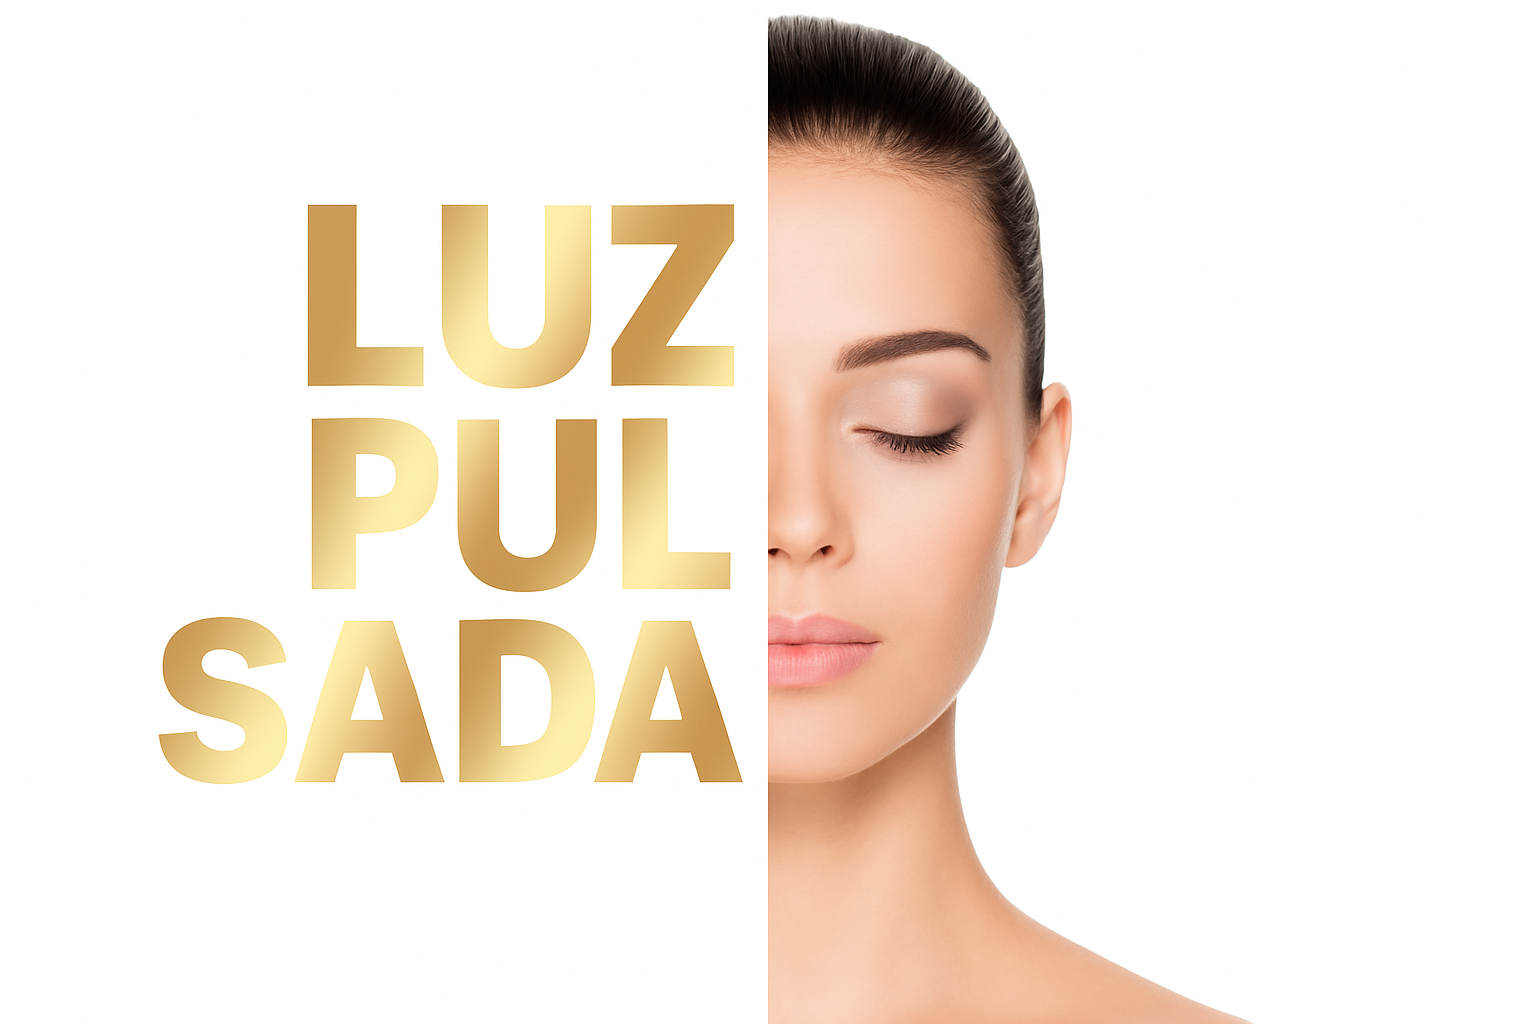
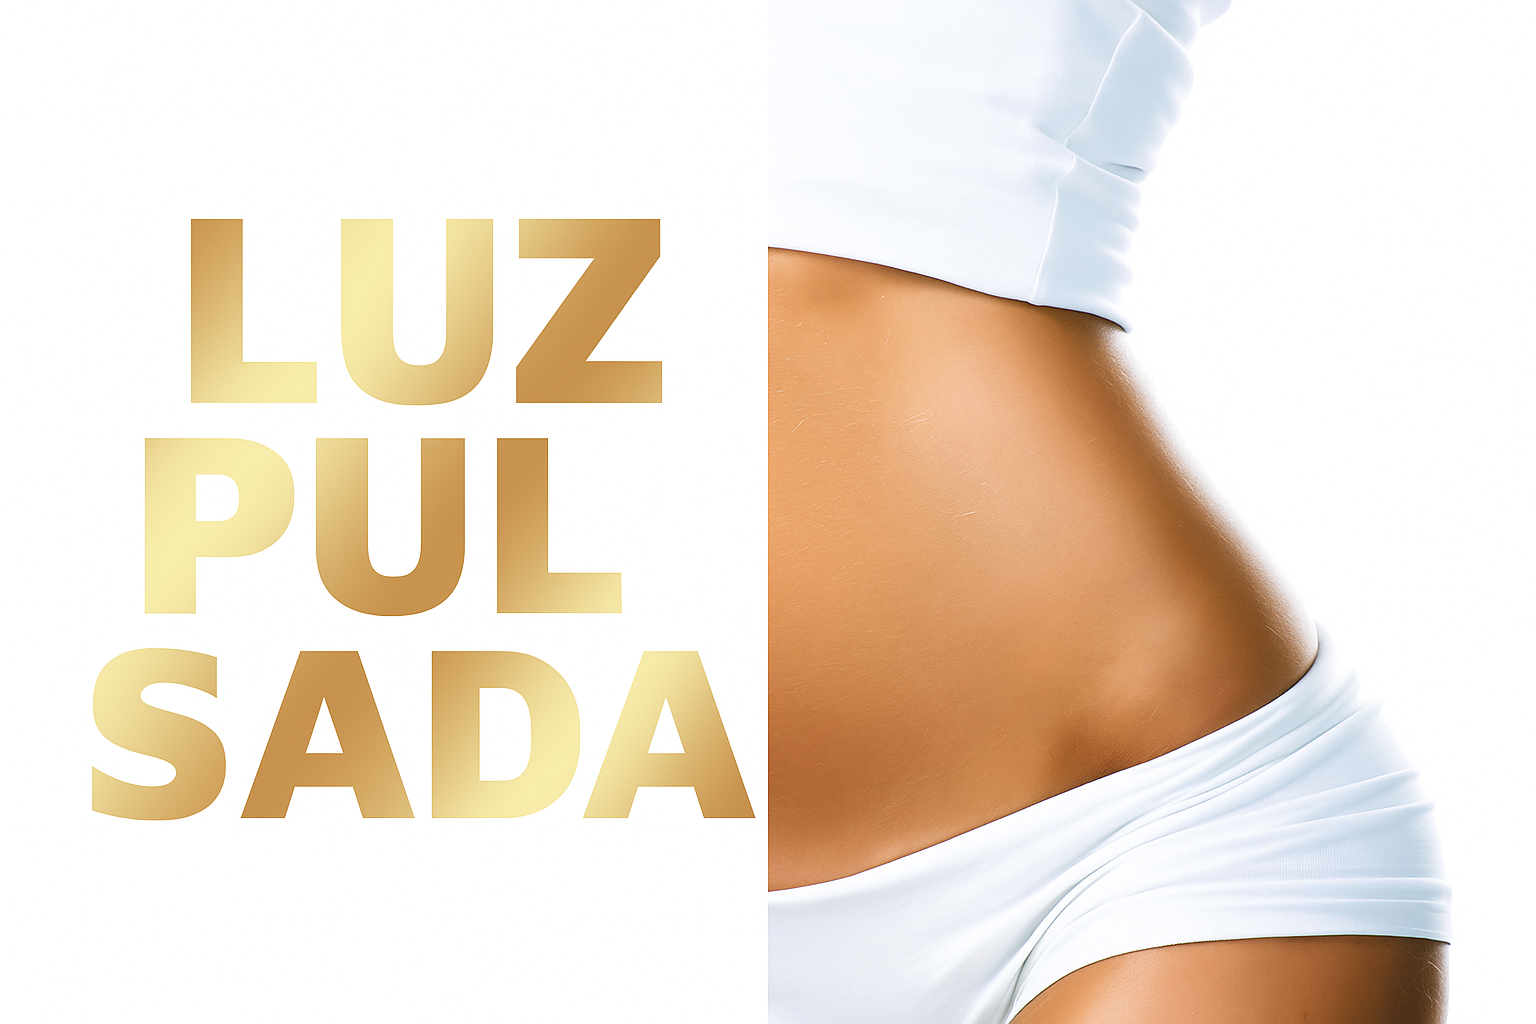
ajustes nas paginas

diff --git a/index.html b/index.html
@@ -36,10 +36,10 @@
             </ul>
           </li>
           <li class="nav-item">
-            <a class="nav-link" href="blog.html">Blog</a>
+            <a class="nav-link" href="sobre.html">Sobre</a>
           </li>
           <li class="nav-item">
-            <a class="nav-link" href="sobre.html">Sobre</a>
+            <a class="nav-link" href="contato.html">Contato</a>
           </li>
         </ul>
       </div>
@@ -73,14 +73,6 @@
       </div>
     </div>
     </a>
-    <a href="epilacao.html" class="card-link" style="text-decoration: none;">
-    <div class="card" style="width: 18rem;">
-      <img src="FOTOS/epilacao-card.png" class="card-img-top" alt="FOTOS/epilacao-card.png">
-      <div class="card-body">
-        <p class="card-text">Epilação com cera para remover os pelos de forma eficaz, segura e duradoura, promovendo pele lisa, macia e livre de irritações.</p>
-      </div>
-    </div>
-    </a>
     <a href="luzpulsada.html" class="card-link" style="text-decoration: none;">
     <div class="card" style="width: 18rem;">
       <img src="FOTOS/luzpulsada-card.png" class="card-img-top" alt="FOTOS/luzpulsada-card.png">
@@ -89,6 +81,15 @@
       </div>
     </div>
     </a>
+    <a href="epilacao.html" class="card-link" style="text-decoration: none;">
+    <div class="card" style="width: 18rem;">
+      <img src="FOTOS/epilacao-card.png" class="card-img-top" alt="FOTOS/epilacao-card.png">
+      <div class="card-body">
+        <p class="card-text">Epilação com cera para remover os pelos de forma eficaz, segura e duradoura, promovendo pele lisa, macia e livre de irritações.</p>
+      </div>
+    </div>
+    </a>
+    
   </div>
   
  
@@ -109,10 +110,9 @@
           <h4 style="margin-top: 30px; color: white;">NAVEGUE PELO SITE</h4>
           <ul>
             <li><a href="index.html">Início</a></li>
-            <li><a href="procedimentos.html">Procedimentos</a></li>
-            <li><a href="blog.html">Blog</a></li>
+            <li><a href="facial.html">Procedimentos</a></li>
             <li><a href="sobre.html">Sobre</a></li>
-            <li><a href="#">Contato</a></li>
+            <li><a href="contato.html">Contato</a></li>
           </ul>
         </div>
 

diff --git a/sobre.html b/sobre.html
@@ -35,17 +35,18 @@
               <li><a class="dropdown-item" href="luzpulsada.html">Luz Pulsada</a></li>
             </ul>
           </li>
-          <li class="nav-item">
-            <a class="nav-link" href="blog.html">Blog</a>
-          </li>
+          
           <li class="nav-item">
             <a class="nav-link" href="sobre.html">Sobre</a>
+          </li>
+          <li class="nav-item">
+            <a class="nav-link" href="contato.html">Contato</a>
           </li>
         </ul>
       </div>
     </div>
 
-    <img src="FOTOS/logo.jpg" alt="Brigs Logo" class="logo me-2">
+   
 
 
 
@@ -101,10 +102,9 @@
           <h4 style="margin-top: 30px; color: white;">NAVEGUE PELO SITE</h4>
           <ul>
             <li><a href="index.html">Início</a></li>
-            <li><a href="procedimentos.html">Procedimentos</a></li>
-            <li><a href="blog.html">Blog</a></li>
+            <li><a href="facial.html">Procedimentos</a></li>
             <li><a href="sobre.html">Sobre</a></li>
-            <li><a href="#">Contato</a></li>
+            <li><a href="contato.html">Contato</a></li>
           </ul>
         </div>
 

diff --git a/corporal.html b/corporal.html
@@ -35,11 +35,12 @@
               <li><a class="dropdown-item" href="luzpulsada.html">Luz Pulsada</a></li>
             </ul>
           </li>
-          <li class="nav-item">
-            <a class="nav-link" href="blog.html">Blog</a>
-          </li>
+          
           <li class="nav-item">
             <a class="nav-link" href="sobre.html">Sobre</a>
+          </li>
+          <li class="nav-item">
+            <a class="nav-link" href="contato.html">Contato</a>
           </li>
         </ul>
       </div>
@@ -140,10 +141,9 @@
           <h4 style="margin-top: 30px; color: white;">NAVEGUE PELO SITE</h4>
           <ul>
             <li><a href="index.html">Início</a></li>
-            <li><a href="procedimentos.html">Procedimentos</a></li>
-            <li><a href="blog.html">Blog</a></li>
+            <li><a href="facial.html">Procedimentos</a></li>
             <li><a href="sobre.html">Sobre</a></li>
-            <li><a href="#">Contato</a></li>
+            <li><a href="contato.html">Contato</a></li>
           </ul>
         </div>
 

diff --git a/epilacao.html b/epilacao.html
@@ -35,11 +35,12 @@
               <li><a class="dropdown-item" href="luzpulsada.html">Luz Pulsada</a></li>
             </ul>
           </li>
-          <li class="nav-item">
-            <a class="nav-link" href="blog.html">Blog</a>
-          </li>
+          
           <li class="nav-item">
             <a class="nav-link" href="sobre.html">Sobre</a>
+          </li>
+          <li class="nav-item">
+            <a class="nav-link" href="contato.html">Contato</a>
           </li>
         </ul>
       </div>
@@ -159,10 +160,9 @@
           <h4 style="margin-top: 30px; color: white;">NAVEGUE PELO SITE</h4>
           <ul>
             <li><a href="index.html">Início</a></li>
-            <li><a href="procedimentos.html">Procedimentos</a></li>
-            <li><a href="blog.html">Blog</a></li>
+            <li><a href="facial.html">Procedimentos</a></li>
             <li><a href="sobre.html">Sobre</a></li>
-            <li><a href="#">Contato</a></li>
+            <li><a href="contato.html">Contato</a></li>
           </ul>
         </div>
 

diff --git a/facial.html b/facial.html
@@ -35,11 +35,12 @@
               <li><a class="dropdown-item" href="luzpulsada.html">Luz Pulsada</a></li>
             </ul>
           </li>
-          <li class="nav-item">
-            <a class="nav-link" href="blog.html">Blog</a>
-          </li>
+          
           <li class="nav-item">
             <a class="nav-link" href="sobre.html">Sobre</a>
+          </li>
+          <li class="nav-item">
+            <a class="nav-link" href="contato.html">Contato</a>
           </li>
         </ul>
       </div>
@@ -140,10 +141,9 @@
           <h4 style="margin-top: 30px; color: white;">NAVEGUE PELO SITE</h4>
           <ul>
             <li><a href="index.html">Início</a></li>
-            <li><a href="procedimentos.html">Procedimentos</a></li>
-            <li><a href="blog.html">Blog</a></li>
+            <li><a href="facial.html">Procedimentos</a></li>
             <li><a href="sobre.html">Sobre</a></li>
-            <li><a href="#">Contato</a></li>
+            <li><a href="contato.html">Contato</a></li>
           </ul>
         </div>
 

diff --git a/luzpulsada.html b/luzpulsada.html
@@ -35,11 +35,12 @@
               <li><a class="dropdown-item" href="luzpulsada.html">Luz Pulsada</a></li>
             </ul>
           </li>
-          <li class="nav-item">
-            <a class="nav-link" href="blog.html">Blog</a>
-          </li>
+          
           <li class="nav-item">
             <a class="nav-link" href="sobre.html">Sobre</a>
+          </li>
+          <li class="nav-item">
+            <a class="nav-link" href="contato.html">Contato</a>
           </li>
         </ul>
       </div>
@@ -177,10 +178,9 @@
           <h4 style="margin-top: 30px; color: white;">NAVEGUE PELO SITE</h4>
           <ul>
             <li><a href="index.html">Início</a></li>
-            <li><a href="procedimentos.html">Procedimentos</a></li>
-            <li><a href="blog.html">Blog</a></li>
+            <li><a href="facial.html">Procedimentos</a></li>
             <li><a href="sobre.html">Sobre</a></li>
-            <li><a href="#">Contato</a></li>
+            <li><a href="contato.html">Contato</a></li>
           </ul>
         </div>
 

diff --git a/contato.html b/contato.html
@@ -35,11 +35,12 @@
               <li><a class="dropdown-item" href="luzpulsada.html">Luz Pulsada</a></li>
             </ul>
           </li>
-          <li class="nav-item">
-            <a class="nav-link" href="blog.html">Blog</a>
-          </li>
+          
           <li class="nav-item">
             <a class="nav-link" href="sobre.html">Sobre</a>
+          </li>
+          <li class="nav-item">
+            <a class="nav-link" href="contato.html">Contato</a>
           </li>
         </ul>
       </div>
@@ -64,10 +65,9 @@
           <h4 style="margin-top: 30px; color: white;">NAVEGUE PELO SITE</h4>
           <ul>
             <li><a href="index.html">Início</a></li>
-            <li><a href="procedimentos.html">Procedimentos</a></li>
-            <li><a href="blog.html">Blog</a></li>
+            <li><a href="facial.html">Procedimentos</a></li>
             <li><a href="sobre.html">Sobre</a></li>
-            <li><a href="#">Contato</a></li>
+            <li><a href="contato.html">Contato</a></li>
           </ul>
         </div>
 
